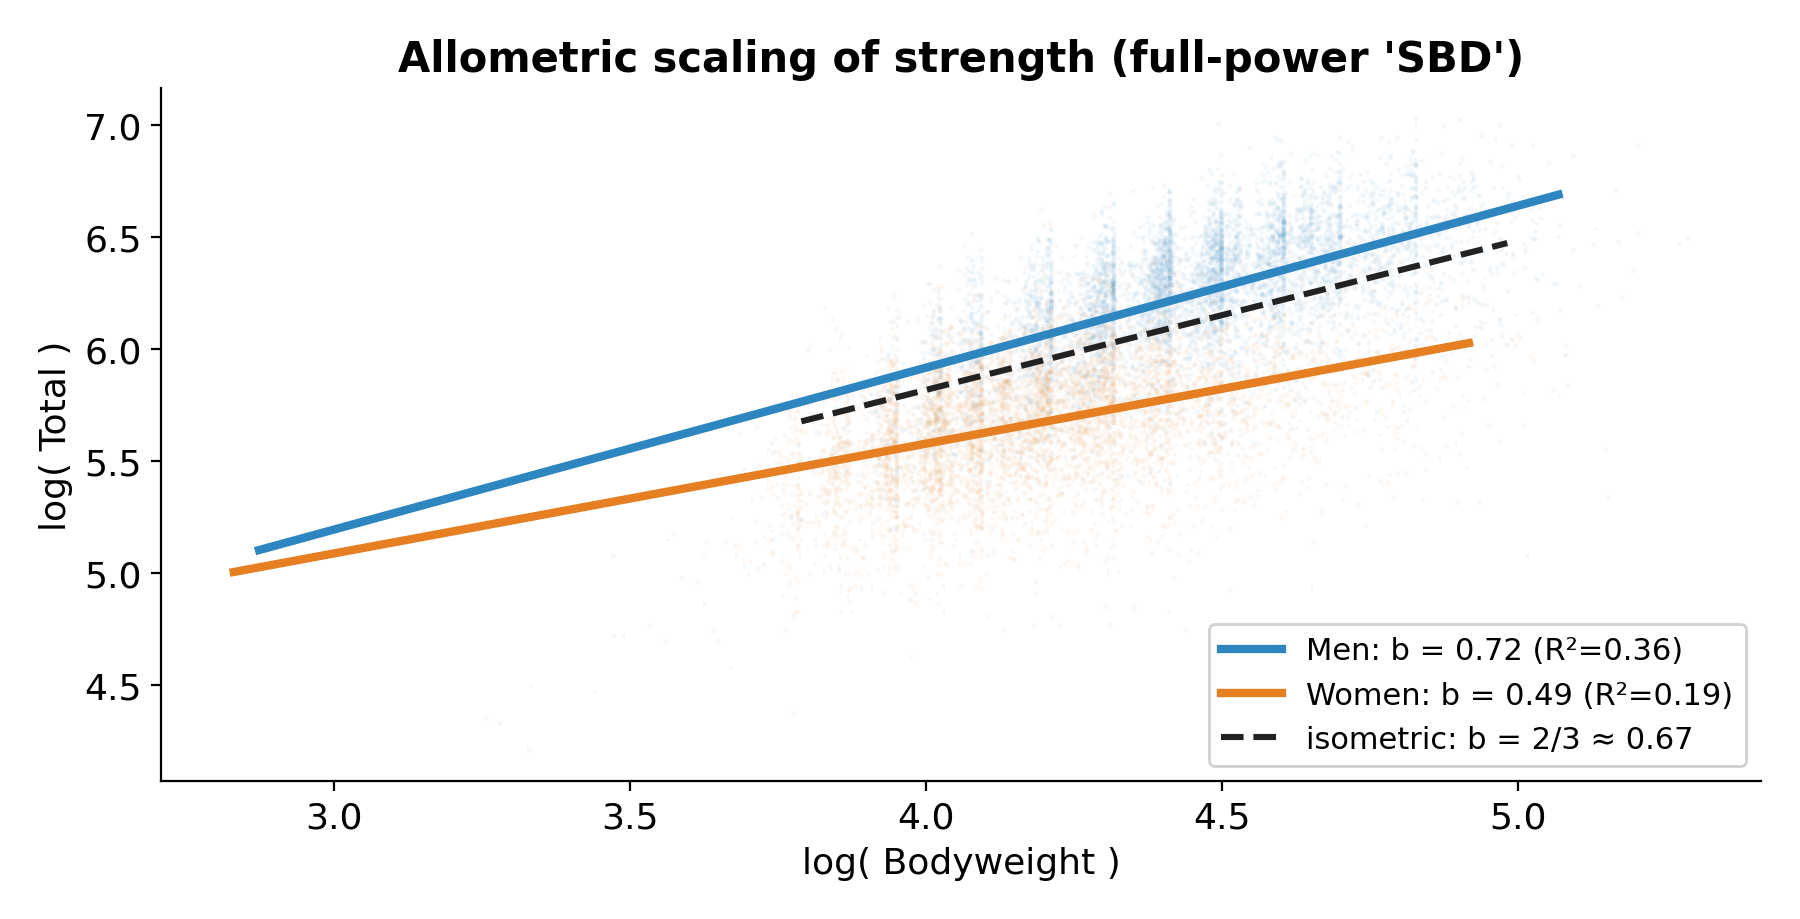
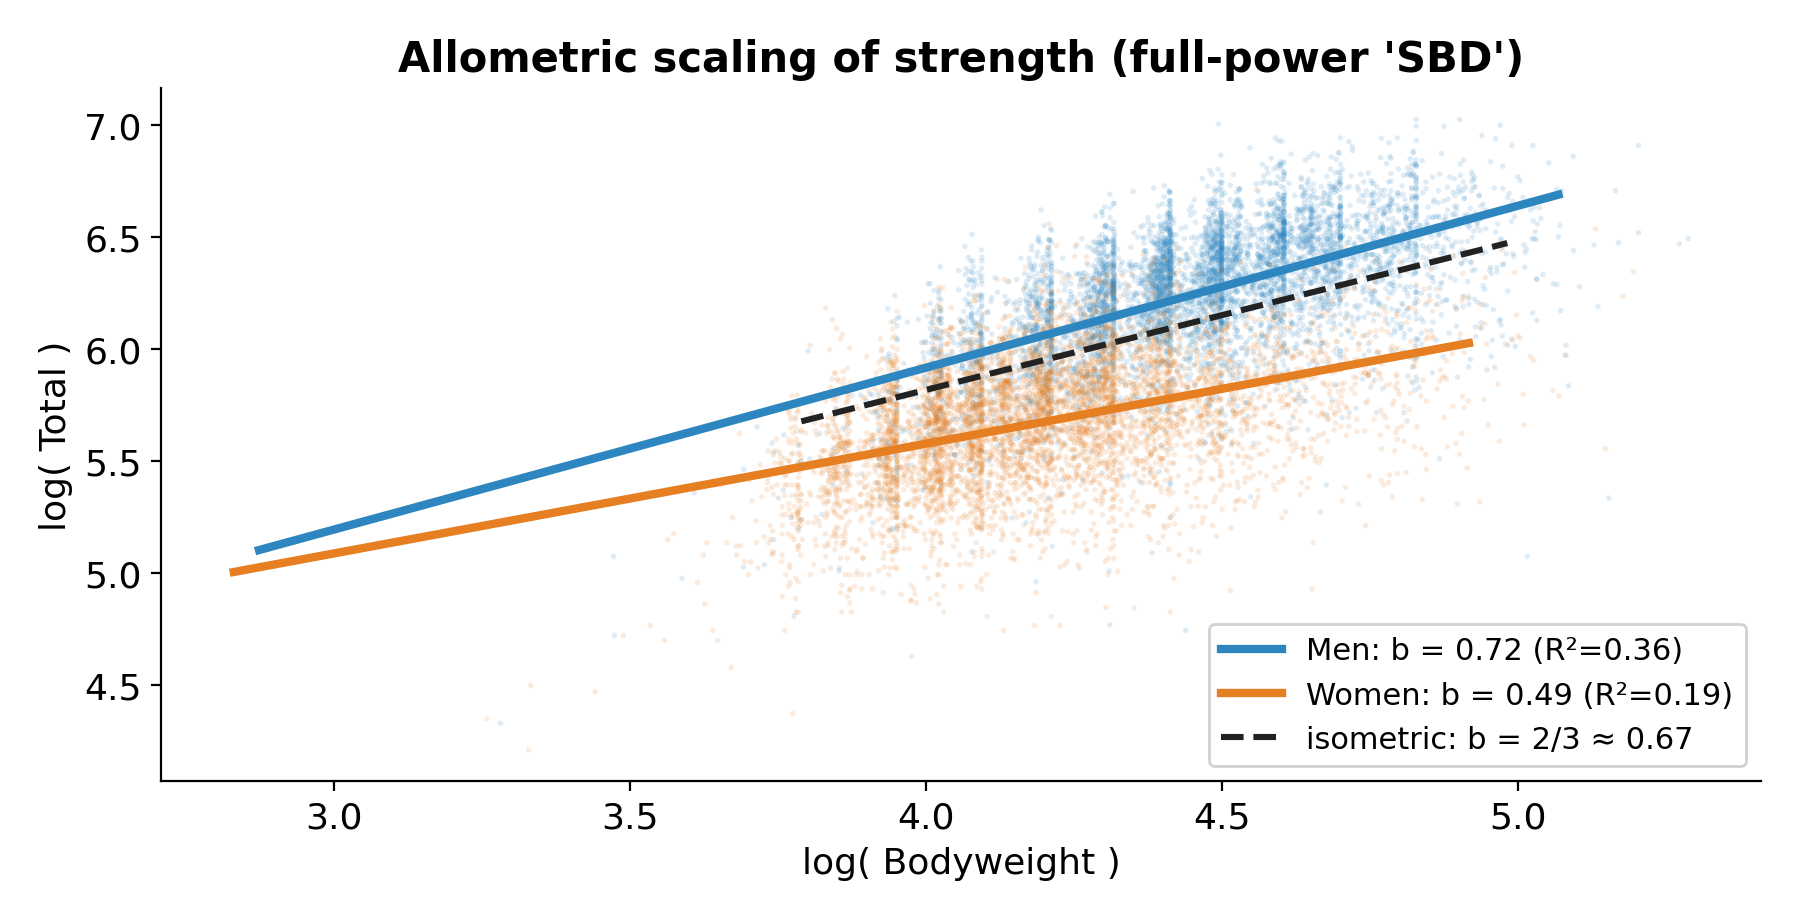
Final QA pass: unify H1-H4 numbering, close real gaps
Triangulated review across 5 lenses
(instructions-compliance, statistical-correctness, numbers/figures, course-coverage,
story/Hebrew/Q&A). Consensus fixes applied:

- CRITICAL: unify hypothesis numbering to the deck's H1(grid)/H2(bunching)/
  H3(allometry)/H4(prediction) across spec, course-alignment, checklist, and
  make_figures.py; demote old H3(mixture)/H4(tested) to clearly-labelled supporting
  analyses; add a canonical numbering table to the spec.
- Slide 2: stop overclaiming "dedup by lifter" (the figures are attempt/row-level;
  dedup is for the formal Stage-2 tests).
- Slide 7: "מחלקת IPF" -> "IPF+USAPL, גברים"; mark de-heaping as already applied.
- Slide 8: add the (tight) b confidence interval; figure alpha 0.05->0.15 for
  projector readability.
- Slide 4/5/9: frame H4 as the Stage-2 learning component; add a logistic
  "made-weight" classifier (covers the classification item); align feature list;
  slide title -> "שיטות החקר"; terminology "תיקון משפחתי"->"תיקון להשוואות מרובות",
  "מקטע-משקל"->"קטגוריית-משקל".
- checklist.md: remove the now-false "classification out-of-scope" line; fix F/ANOVA
  overclaim.
- spec: H4 circularity guard (predict Total, drop bodyweight when modelling Dots),
  MP/UMP one-sided framing, H2 weight-class-schema/era sensitivity, GOF framing of H1.

Changed region(s): [[0.4356, 0.1828, 0.8089, 0.6094]]

diff --git a/src/make_deck.py b/src/make_deck.py
@@ -93,13 +93,13 @@ rule(s, 6.05, l=4.4, w=4.5)
 content("נתוני המחקר", [
     "מקור: OpenPowerlifting — מאגר פתוח של תוצאות תחרויות הרמת-כוח (רישיון CC0).",
     "היקף: כ-3.94 מיליון תוצאות (שורה לכל מתחרה בכל תחרות), 42 משתנים.",
-    "משתנים: רציפים — משקל-גוף, משקלי-ניסיון, Total, Dots; קטגוריים — מין, ציוד, פדרציה, מקטע-משקל, Tested.",
-    "ניקוי ושחזור: אותו מתחרה מופיע בכמה תחרויות (תלות בין שורות) → dedup לפי-מתחרה; עותק-נתונים נעול לשחזור מלא.",
+    "משתנים: רציפים — משקל-גוף, משקלי-ניסיון, Total, Dots; קטגוריים — מין, ציוד, פדרציה, קטגוריית-משקל, Tested.",
+    "אתגרים וטיפול: אותו מתחרה מופיע בכמה תחרויות (תלות בין שורות) → המבחנים הפורמליים ירוצו עם dedup לפי-מתחרה; התוצאות הראשוניות כאן ברמת-ניסיון/שורה. נועלים snapshot של הנתונים לשחזור.",
 ])
 
 # ---- Slide 3: overview (two-numbers tagline + contribution) ----
 content("עיקרי העבודה", [
-    "רקע: בהרמת-כוח שלוש הרמות (סקוואט, בנץ', דדליפט), שלושה ניסיונות לכל הרמה, והתחרות בתוך מקטעי משקל-גוף.",
+    "רקע: בהרמת-כוח שלוש הרמות (סקוואט, בנץ', דדליפט), שלושה ניסיונות לכל הרמה, והתחרות בתוך קטגוריות משקל-גוף.",
     "מתחרה שולט בדיוק בשני מספרים: המשקל על המוט (בחירת ניסיונות) ומשקל הגוף (בשקילה).",
     "התרומה: לא רק לתאר — אלא מודל-הסתברות מקורי לרשת-המשקלים, ומבחן-מניפולציה עם נקודת-בקרה ו-de-heaping.",
 ], lead="הרעיון: שני המספרים שהמתחרה שולט בהם — המוט והמאזניים")
@@ -108,18 +108,18 @@ content("עיקרי העבודה", [
 content("שאלת החקר", [
     'כיצד מתבטאת בנתונים ההתנהגות ה"מחושבת" של מתחרים — בבחירת המשקל על המוט ובמשקל הגוף?',
     "\tH1 — משקלי הניסיון אינם רציפים אלא נופלים רק על רשת 2.5 ק\"ג.",
-    "\tH2 — הצטברות משקל-גוף ממש מתחת לסף מקטע-המשקל (עקבי עם חיתוך-משקל).",
+    "\tH2 — הצטברות משקל-גוף ממש מתחת לסף קטגוריית-המשקל (עקבי עם חיתוך-משקל).",
     "\tH3 — קנה-המידה האלומטרי (כוח מול משקל-גוף) שונה בין המינים.",
-    "\tH4 — ניבוי: כמה משתני-השליטה (משקל, ציוד, מין) מנבאים את הכוח הסופי?",
-], lead="ארבע השערות, סיפור אחד — \"שני המספרים\" וגבולות הכוח")
+    "\tH4 — ניבוי (לעבודה הסופית): כמה מהכוח ניתן לנבא ממשתני-השליטה (משקל, ציוד, מין, גיל)?",
+], lead="ארבע השערות, סיפור אחד — H1/H2 \"שני המספרים\", ו-H3/H4 גבולות-הכוח והניבוי")
 
 # ---- Slide 5: methods (1:1 with results + named course tools + ML) ----
-content("שיטות המחקר", [
+content("שיטות החקר", [
     "H1: מודל נראות עם עיגול-רשת (rounded-likelihood MLE) + מבחן יחס-נראות מוכלל (GLRT, דחיית H0 לערכים גדולים).",
     "H2: מבחן אי-רציפות-צפיפות (McCrary) + מערך-הפרכה — נקודת-בקרה, פלצבו, ו-de-heaping.",
     "H3: רגרסיה log-log + מבחן Wald מול 2/3, עם SE חסין ואיבר-אינטראקציה Sex×log(BW).",
-    "H4: רגרסיה מרובה + Random Forest, הערכה ב-R² / Adjusted-R² / Cross-Validation.",
-    'תיקון משפחתי לבדיקות מרובות: Bonferroni/Holm/Šidák (FWER) + Benjamini-Hochberg (FDR). בגלל n≈3.9M מובילים בגודל-אפקט+CI, לא ב-p.',
+    "H4 (לעבודה הסופית): רגרסיה מרובה + Random Forest (+ סיווג logistic ל-made-weight), הערכה ב-R²/RMSE ו-CV מקובץ לפי-מתחרה.",
+    'תיקון להשוואות מרובות: Bonferroni/Holm/Šidák (FWER) + Benjamini-Hochberg (FDR). בגלל n≈3.9M מובילים בגודל-אפקט+CI, לא ב-p.',
 ], lead_size=20)
 
 # ---- Slide 6: results H1 ----
@@ -129,12 +129,12 @@ fig_slide('תוצאות ראשוניות (1): רשת ה-2.5 ק"ג',
 
 # ---- Slide 7: results H2 ----
 fig_slide("תוצאות ראשוניות (2): חיתוך-משקל",
-          'מתחת לסף 83 ק"ג (מחלקת IPF) הצטברות חדה: יחס-לוג מנוקה-עיגול +1.92 ± 0.04 — פי ~6.8 מתחרים ממש-מתחת לעומת ממש-מעל. בבקרה שאינה סף (91 ק"ג): −0.21 ± 0.03. עקבי עם חיתוך-משקל; אישוש פורמלי (McCrary) בהמשך.',
+          'מתחת לסף 83 ק"ג (מחלקות IPF+USAPL, גברים) הצטברות חדה: יחס-לוג לאחר ניקוי-עיגול (כבר הוחל) +1.92 ± 0.04 — פי ~6.8 ממש-מתחת לעומת ממש-מעל. בבקרה שאינה סף (91 ק"ג): −0.21 ± 0.03. עקבי עם חיתוך-משקל; אישוש פורמלי (McCrary) בהמשך.',
           "fig_bunching.png", 9.8/4.3, 11.2)
 
 # ---- Slide 8: results H3 (allometry) ----
 fig_slide("תוצאות ראשוניות (3): קנה-מידה אלומטרי",
-          'קנה-המידה שונה בין המינים: b≈0.72 (R²=0.36) גברים / 0.49 (R²=0.19) נשים, מול 2/3 האיזומטרי. ייבדק פורמלית במבחן Wald (SE חסין); b<0.5 לנשים — אומדן ראשוני, ייתכן אפקט טווח-משקל.',
+          'קנה-המידה שונה בין המינים: b≈0.72 (R²=0.36) גברים / 0.49 (R²=0.19) נשים, מול 2/3 האיזומטרי (רווח-סמך ל-b צר מאוד, ±<0.01 — n עצום). ייבדק פורמלית במבחן Wald (SE חסין); b<0.5 לנשים — אומדן ראשוני, ייתכן אפקט טווח-משקל.',
           "fig_allometry.png", 9.0/4.6, 10.0)
 
 # ---- Slide 9: conclusions + payoff close ----
@@ -144,7 +144,7 @@ bullets = [
     'שני המספרים שהמתחרה שולט בהם נראים בבירור: רשת ה-2.5 ק"ג (המוט), והצטברות מתחת לספים (משקל גוף).',
     "ההצטברות שורדת ניקוי-עיגול ונעדרת בנקודת-בקרה — אינדיקציה ראשונית מעודדת (טרם מבוססת).",
     "הצעדים הבאים: McCrary פורמלי + הפרכה, אלומטריה (Wald), ומודל ניבוי-כוח (רגרסיה + Random Forest, R²/CV).",
-    "כל התוצאות יוצגו עם גודל-אפקט, רווחי-סמך, ותיקון משפחתי (FWER/FDR).",
+    "כל התוצאות יוצגו עם גודל-אפקט, רווחי-סמך, ותיקון להשוואות מרובות (FWER/FDR).",
 ]
 for i, b in enumerate(bullets):
     line(tf, "•  " + b, 19, INK, space_after=13, first=(i == 0))

diff --git a/src/make_figures.py b/src/make_figures.py
@@ -5,11 +5,11 @@ presentation figures (PNG) into ../figures, printing numbers + CIs.
 
 Axis labels are kept in ENGLISH on purpose (matplotlib bidi); Hebrew interpretation
 lives on the slide. Method notes:
-- H1: fraction of attempt loads exactly on the 2.5 kg grid (+ Wilson-ish CI).
+- H1: fraction of attempt loads exactly on the 2.5 kg grid (+ normal-approx CI).
 - H2: bodyweight near a real class limit vs a non-limit control; the histogram and the
   reported log(below/above) are BOTH de-heaped (exact round/half-kg weigh-ins removed),
   so the figure matches the headline number; window (L-0.5, L]; + CI.
-- H5: allometry on full-power (Event=='SBD') results; OLS slope b + CI + R²; isometric 2/3 ref.
+- H3: allometry on full-power (Event=='SBD') results; OLS slope b + CI + R²; isometric 2/3 ref.
 
 Input: ../data/openpowerlifting.csv (run download_data.py first).
 """
@@ -118,7 +118,7 @@ for L in (REAL, CTRL):
     b, a, lr, ci = asym(men, L)
     print(f"   @ {L}: de-heaped below {b:,} / above {a:,} | log-ratio {lr:+.3f} ± {ci:.3f} (x{np.exp(lr):.1f})")
 
-# ---- H5: allometric scaling (full-power 'SBD' only) ----
+# ---- H3: allometric scaling (full-power 'SBD' only) ----
 al = df[(df["Event"] == "SBD") & (df["TotalKg"] > 0) & (df["BodyweightKg"] > 0)
         & df["Sex"].isin(["M", "F"])][["Sex", "BodyweightKg", "TotalKg"]].dropna()
 fig, ax = plt.subplots(figsize=(9.0, 4.6))
@@ -134,7 +134,7 @@ for sex, col, lbl in [("M", C_M, "Men"), ("F", C_W, "Women")]:
     sxx = np.sum((x-x.mean())**2); se_b = np.sqrt(ssres/(len(x)-2)/sxx); ci_b = 1.96*se_b
     stats[sex] = (b, ci_b, r2)
     idx = rng.choice(len(x), size=min(6000, len(x)), replace=False)
-    ax.scatter(x[idx], y[idx], s=3, alpha=0.05, color=col, edgecolors="none")
+    ax.scatter(x[idx], y[idx], s=4, alpha=0.15, color=col, edgecolors="none")
     xs = np.linspace(x.min(), np.percentile(x, 99.5), 50)
     ax.plot(xs, a+b*xs, color=col, lw=3.0, label=f"{lbl}: b = {b:.2f} (R²={r2:.2f})")
 xbar, ybar = allx.mean(), ally.mean()
@@ -152,4 +152,4 @@ print(f"H1: {pct_grid:.1f}% (95% CI [{100*(p-ci_h):.2f},{100*(p+ci_h):.2f}]), n=
 b83, a83, lr83, c83 = asym(men, REAL); _, _, lr91, c91 = asym(men, CTRL)
 print(f"H2 @83 de-heaped: {lr83:+.2f} ± {c83:.2f}  (x{np.exp(lr83):.1f})  |  @91 control: {lr91:+.2f} ± {c91:.2f}")
 for s, name in [("M", "men"), ("F", "women")]:
-    b, ci, r2 = stats[s]; print(f"H5 {name}: b={b:.2f} ± {ci:.2f}, R²={r2:.2f}")
+    b, ci, r2 = stats[s]; print(f"H3 {name}: b={b:.2f} ± {ci:.2f}, R²={r2:.2f}")

diff --git a/docs/project-spec.md b/docs/project-spec.md
@@ -1,7 +1,18 @@
 # Final Project Spec — Statistical Theory
 ## "How Powerlifters 'Game' the Two Numbers They Control — and What the Data Reveals About Human Strength" (OpenPowerlifting)
 
-> All numbers below are **reproducible results** computed on the real data (3,938,042 rows, CC0). The core is robust: **H1** (96.2% of attempts on the 2.5 kg grid) and **H2** (bodyweight bunching just below class thresholds; a non-limit control is flat — the effect is specific to the thresholds). Secondary results: **H4** = 24%/43% untested (population / top-1%); **H5** = b≈0.72 (men) / 0.49 (women) on full-power (SBD) results. **H3 is *not* a by-sex mixture** (Dots is already normalized for sex/weight; see below). Wherever a specification must be locked, this is marked explicitly.
+> All numbers below are **reproducible results** computed on the real data (3,938,042 rows, CC0). The core is robust: **H1** (96.2% of attempts on the 2.5 kg grid) and **H2** (bodyweight bunching just below class thresholds; a non-limit control is flat — the effect is specific to the thresholds). **H3** = allometric scaling b≈0.72 (men) / 0.49 (women) on full-power (SBD) results. **H4** = a strength-prediction model (regression + Random Forest) covering the course's learning half. Supporting analyses: tested/untested control (24%/43% untested, population / top-1%); strength-distribution structure (**not** a by-sex mixture — Dots is already normalized for sex/weight; see below); EVT; time-trend. Wherever a specification must be locked, this is marked explicitly.
+>
+> **🔢 Canonical hypothesis numbering (one scheme for the deck, the prep-guide, this spec, and the code).** The mid-presentation presents exactly these four; the paper keeps the same numbers:
+> | # | Hypothesis | Status |
+> |---|---|---|
+> | **H1** | Attempt loads quantized to the 2.5 kg grid | Leading (core) |
+> | **H2** | Bodyweight bunching just below class limits (weight-cutting) | Leading (core) |
+> | **H3** | Allometric scaling of strength differs by sex (was "H5" in earlier drafts) | Presented result |
+> | **H4** | Predicting strength — regression + Random Forest (was "H6 / Stage 9") | Presented as the Stage-2 learning component |
+> | *Supporting (no H-number)* | strength-distribution structure (old "H3"), tested/untested control (old "H4"), EVT, time-trend | Paper only |
+>
+> Do a `grep -n "H3\|H4\|H5\|H6"` after any edit to confirm no two analyses share a number.
 
 ---
 
@@ -22,23 +33,24 @@
 - **H1 — quantization (the theoretical core):** attempt weights are not continuous but **quantized to a 2.5 kg grid** — a continuous "intended" weight observed through grid rounding. **Validated: 96.4% of best attempts / 96.2% including failed ones on the grid.** The reported result = **%on-grid + CI** (not the astronomical G).
 - **H2 — weight-cutting bunching:** an excess just below a class threshold + a deficit above it. **Result (IPF + USAPL men, n≈1.18M, boundary-correct window (L-0.5, L], de-heaped):** log(below/above) ≈ **+1.92 at the 83 kg limit** (and ≈ +1.5 / +1.0 at 93 / 105), versus ≈ **-0.21 at a non-limit control (91 kg)** — the excess is specific to real class limits and survives removing round-number heaping. To be formalized with a McCrary / Cattaneo-Jansson-Ma density-discontinuity test (see section 2).
 
-**🟡 Secondary:**
-- **H3 — structure of the strength distribution:** ⚠️ **Not a by-sex mixture.** `Dots` is pre-normalized for sex+weight (mean Dots ≈254 *identical* across the two sexes) — so labeling the components as "men/women" is factually wrong. The bimodality is **real** (Anderson-Darling ≈687–1307) but originates in **single-lift/bench-only events, beginners/youth, and bomb-outs** (the low cluster is 78% men). **Framing:** (a) run the mixture on **raw strength** (not Dots), where sex *does* produce bimodality; or (b) filter to **full SBD + TotalKg>0** and frame it as "two competition regimes." Mixture-vs-single GLRT **via parametric bootstrap / AIC-BIC — not χ²** (see caveat in section 2).
-- **H5 — allometric scaling:** `Total ~ Bodyweight^b` on full-power (Event=='SBD') results. **OLS: b≈0.72 (men) / 0.49 (women).** Men sit slightly **above** the isometric 2/3≈0.667, women well **below** — a sex difference in scaling. Report b+CI with heteroskedasticity-robust / clustered SE and a Sex×log(BW) interaction (section 2). The women's b<0.5 may be a range-restriction artifact → diagnose before publication.
+**🟡 Presented result (H3):**
+- **H3 — allometric scaling (was "H5"):** `Total ~ Bodyweight^b` on full-power (Event=='SBD') results. **OLS: b≈0.72 (men) / 0.49 (women).** Men sit slightly **above** the isometric 2/3≈0.667, women well **below** — a sex difference in scaling. Report b+CI with heteroskedasticity-robust / clustered SE and a Sex×log(BW) interaction (section 2). The women's b<0.5 may be a range-restriction artifact → diagnose before publication.
+- **H4 — predicting strength (was "H6 / Stage 9"; the course's learning half):** how well is `TotalKg` predicted from the controllable + basic variables? **Multiple regression + Random Forest**, evaluated on **held-out lifters** (grouped CV) with **R²/Adjusted-R²/RMSE/MAE** + feature importance, plus a small **logistic "made-weight-just-under-a-limit" classifier** (accuracy/AUC/confusion) to cover the *classification* item. ⚠️ **Avoid circularity:** when the target is `Dots` (already a function of bodyweight) drop bodyweight from the predictors; the headline model predicts **`TotalKg`** with bodyweight as a feature. No preliminary result at Stage A — presented as the planned Stage-2 learning component.
 
-**🔵 Additional observations / control (compact paragraph, not a main header):**
-- **H4 — drugs/testing (control/moderator):** **24% untested in the population / 43% in the top-1%** (untested are over-represented in the elite tail). ⚠️ confound at the federation/equipment/era level — one cannot infer "drugs" from a raw comparison. Therefore: compare **top-1% versus bottom-99% (disjoint groups)** with **equipment stratification + regression** (Tested + Federation+Equipment+Sex+Era), and frame it **descriptively** / as a moderator of the dose-response in H2.
+**🔵 Supporting analyses (paper only — NOT numbered hypotheses, NOT in the mid-deck):**
+- **Supporting — structure of the strength distribution (old "H3"):** ⚠️ **Not a by-sex mixture.** `Dots` is pre-normalized for sex+weight (mean Dots ≈254 *identical* across the two sexes) — so labeling the components as "men/women" is factually wrong. The bimodality is **real** (Anderson-Darling ≈687–1307) but originates in **single-lift/bench-only events, beginners/youth, and bomb-outs** (the low cluster is 78% men). **Framing:** (a) run the mixture on **raw strength** (not Dots), where sex *does* produce bimodality; or (b) filter to **full SBD + TotalKg>0** and frame it as "two competition regimes." Mixture-vs-single GLRT **via parametric bootstrap / AIC-BIC — not χ²** (see caveat in section 2).
+- **Supporting — drugs/testing control/moderator (old "H4"):** **24% untested in the population / 43% in the top-1%** (untested are over-represented in the elite tail). ⚠️ confound at the federation/equipment/era level — one cannot infer "drugs" from a raw comparison. Therefore: compare **top-1% versus bottom-99% (disjoint groups)** with **equipment stratification + regression** (Tested + Federation+Equipment+Sex+Era), and frame it **descriptively** / as a moderator of the dose-response in H2.
 - **EVT (supporting):** GEV on the annual block-maxima of strength, ξ<0 → ceiling. **Report the number of blocks + a CI for ξ (profile-likelihood)**, a stable sub-window, and cite Einmahl & Magnus (the method is well known — its application to OPL is new).
 - **Time trend (supporting):** mean strength and number of participants over the years; women/men ratio — compact.
 
 ## 2. Analysis Plan (Python)
 **Stage 0 — loading, cleaning, and unit of analysis (declared in advance):**
 - From the 803MB CSV → lean files by columns. Attempts = absolute value (failures are negative), reasonable range.
-- **Independence / pseudo-replication — correction per-hypothesis (not a "note"):** the same competitor appears in many rows; this **biases estimates** (not merely inflates significance) in H3/H5/time-trend. **Declared dedup rule: one row per competitor = personal Total-best within the clean set**, for the cross-sectional hypotheses (H3/H5/EVT/time). For H1 the unit of analysis is **the attempt** (the mechanism is within-competitor ⇒ the grid is robust to clustering). Report a **sensitivity table** for 2–3 dedup rules.
+- **Independence / pseudo-replication — correction per-hypothesis (not a "note"):** the same competitor appears in many rows; this **biases estimates** (not merely inflates significance) in allometry/structure/time-trend. **Declared dedup rule: one row per competitor = personal Total-best within the clean set**, for the cross-sectional analyses (H3-allometry / structure / EVT / time). For H1 the unit of analysis is **the attempt** (the mechanism is within-competitor ⇒ the grid is robust to clustering). Report a **sensitivity table** for 2–3 dedup rules.
 - **Unit-source control (lb→kg):** identify lb-native rows (weight = a multiple of 0.45359237) and run H2 **first on the kg-native IPF rows**; show that the effect survives; report the lb-converted ones separately.
-- **Explicit federation list, published in the repo:** IPF + USAPL/USPA (one modern schema). Exclude THSPA/THSWPA (Texas high school) and FPR/USPF/WPC (overlapping schemas).
+- **Explicit federation list, published in the repo:** IPF + USAPL/USPA (one modern schema). Exclude THSPA/THSWPA (Texas high school) and FPR/USPF/WPC (overlapping schemas). ⚠️ **Weight-class schemas changed over time** even within IPF/USAPL (older eras used 82.5/90/100 kg classes, the modern men's set is 59/66/74/83/93/105/120). For H2, **restrict to the modern-schema era** (or filter by the published `WeightClassKg` set) and run a **schema-era sensitivity check** so the 83-vs-91 contrast is not muddied by legacy classes near 90.
 
-**Stage 1 — Core A: quantization (H1).** %on-grid 2.5/5/integer **+ CI** as the primary result; **MLE for a grid-rounding model** (point mass on the grid + continuous background) + **nested likelihood-ratio (GLRT)**. ⚠️ The grid weight is on the **boundary** of the space under H0 → declare the df and use **Self–Liang / bootstrap** (not naive χ²_1). Sub-grid (lb→kg peaks) via a cited **lb-plate standard**.
+**Stage 1 — Core A: quantization (H1).** %on-grid 2.5/5/integer **+ CI** as the primary result; **MLE for a grid-rounding model** (point mass on the grid + continuous background) + **nested likelihood-ratio (GLRT)**. ⚠️ The grid weight is on the **boundary** of the space under H0 → declare the df and use **Self–Liang / bootstrap** (not naive χ²_1). Frame the on-grid test *also* as a **χ² goodness-of-fit** of attempt-loads against the 2.5 kg-grid expected distribution — this earns the "goodness-of-fit"/"χ²" toolbox items for free. Sub-grid (lb→kg peaks) via a cited **lb-plate standard**.
 
 **Stage 2 — Core B: bunching (H2).** A **density-discontinuity test (McCrary; preferably Cattaneo-Jansson-Ma `rddensity`)** of the **jump** at the threshold — not bare "asymmetry." Measure the **spike width** (cutting = a sharp spike in <0.5–1 kg; class assignment = a smooth slope). Falsification (mandatory):
 - (i) **two placebos** to separate the confound: (a) round-non-legal (80/85 if not a threshold) to measure round-number attraction; (b) **non-round-and-non-legal** (70.0 etc.) = the true null. **The claim = asymmetry at legal thresholds greater than the round-number baseline** (a contrast, not "present/absent").
@@ -46,12 +58,12 @@
 - (iii) **dose (dose-response)** — stronger in the elite/tested/winners, **within the same federation** (otherwise it is a federation-composition confound), and at the competitor level (dedup).
 - Bandwidth: a declared selection rule + a **sensitivity curve** + CI (not a bare number).
 
-**Stage 3 — structure of the strength distribution (H3).** Normality (Anderson-Darling + KS + QQ) → rejected → **2-component Gaussian mixture model (EM)**. ⚠️ **The mixture LRT violates Wilks** (mixing weight on the boundary + non-identifiability) → **calibrate with a parametric bootstrap or lead with AIC/BIC**, and declare this explicitly (turns a pitfall into a beyond-course advantage). Run on **raw strength / full SBD** (not Dots), and interpret as "competition regimes"/sex-in-raw-strength.
+**Stage 3 — structure of the strength distribution (supporting).** Normality (Anderson-Darling + KS + QQ) → rejected → **2-component Gaussian mixture model (EM)**. ⚠️ **The mixture LRT violates Wilks** (mixing weight on the boundary + non-identifiability) → **calibrate with a parametric bootstrap or lead with AIC/BIC**, and declare this explicitly (turns a pitfall into a beyond-course advantage). Run on **raw strength / full SBD** (not Dots), and interpret as "competition regimes"/sex-in-raw-strength.
 
-**Stage 4 — control: tested versus untested (H4).** **top-1% versus bottom-99% (disjoint groups)** — two-proportions / χ² + CI for the difference + odds-ratio. **Equipment stratification (Raw vs Raw)** and **regression** with Tested+Federation+Equipment+Sex+Era (interaction term in-course). χ² test of independence **Federation×Tested** (+ Cramér's V). *Drop* the standalone equipment ANOVA and the sex×equipment χ² into a single control paragraph ("equipment inflates Total → controlled for"). Mean comparisons: **Welch *or* Mann-Whitney** (state the null of each) + a **rank-based effect size**; **no Levene as a gate**. Report **standardized residuals** for the Federation×Tested χ² (which cell drives the association — Lecture 9); when converting a Mann-Whitney/Wilcoxon rank statistic to z, apply the **continuity correction** (Lecture 8).
+**Stage 4 — control: tested versus untested (supporting).** **top-1% versus bottom-99% (disjoint groups)** — two-proportions / χ² + CI for the difference + odds-ratio. **Equipment stratification (Raw vs Raw)** and **regression** with Tested+Federation+Equipment+Sex+Era (interaction term in-course). χ² test of independence **Federation×Tested** (+ Cramér's V). *Drop* the standalone equipment ANOVA and the sex×equipment χ² into a single control paragraph ("equipment inflates Total → controlled for"). Mean comparisons: **Welch *or* Mann-Whitney** (state the null of each) + a **rank-based effect size**; **no Levene as a gate**. Report **standardized residuals** for the Federation×Tested χ² (which cell drives the association — Lecture 9); when converting a Mann-Whitney/Wilcoxon rank statistic to z, apply the **continuity correction** (Lecture 8).
 
-**Stage 5 — allometry (H5).** `log(Total) ~ log(Bodyweight)` OLS with **heteroskedasticity-robust standard errors (HC3) / clustered-by-competitor**; a **Wald test against 2/3** (and also presented against 1 as an anchor); a **Sex×log(BW) interaction term** to test the sex difference *formally* (instead of a separate fit). Report the fit's **R²**; for the Pearson/Spearman correlations give CIs via the **Fisher transformation** (Lecture 9). Diagnose the b≈0.49 for women (weight-range/leverage) before interpretation. Result = **b+CI**, not p.
-- **H6 — predicting strength (covers the course's ML / learning half):** how well is `TotalKg`/`Dots` predicted from the controllable + basic variables (bodyweight, sex, equipment, age)? **Multiple linear regression** (log terms + interactions) vs a **Random Forest** baseline, evaluated on **held-out lifters** with **R² / Adjusted R² / RMSE / k-fold CV** + feature importance. On-story: "how predictable is the strength a lifter produces, and which inputs matter." (Lectures 3 + 10.)
+**Stage 5 — allometry (H3).** `log(Total) ~ log(Bodyweight)` OLS with **heteroskedasticity-robust standard errors (HC3) / clustered-by-competitor**; a **Wald test against 2/3** (and also presented against 1 as an anchor); a **Sex×log(BW) interaction term** to test the sex difference *formally* (instead of a separate fit). Report the fit's **R²**; for the Pearson/Spearman correlations give CIs via the **Fisher transformation** (Lecture 9). Diagnose the b≈0.49 for women (weight-range/leverage) before interpretation. Result = **b+CI**, not p. (The preliminary deck figure uses plain OLS SE; the **HC3/clustered SE is the formal Stage-2 version** — keep the deck's "ייבדק פורמלית (SE חסין)" framing.)
+- **(H4 prediction is specified in Stage 9 below.)**
 
 **Stage 6 — extreme value theory (EVT, supporting).** GEV on the annual block-maxima; **report the number of blocks** + a CI for ξ; **POT/GPD** as an alternative; a stable sub-window (fixed federations/era) or a trend-model in location. ξ<0 = "a ceiling *in this competitive population*," not "a ceiling of the human species."
 
@@ -62,13 +74,13 @@
 - A pre-declared family of tests; apply **all four corrections the TA requires — Bonferroni, Holm-Bonferroni, Šidák (FWER family) + Benjamini-Hochberg (FDR)** (via `statsmodels.stats.multitest.multipletests`, methods `bonferroni`/`holm`/`sidak`/`fdr_bh`), reported as a #-rejected comparison table → note robustness across methods (FWER vs FDR agree because the effects are strong). An **a-priori power analysis** (α=0.05, target 0.90).
 - **Paired test (new, on-story):** attempt-1 versus attempt-3 of the same competitor (Wilcoxon signed-rank) — covers an additional item from the toolbox and reinforces H1/H2 ("the number on the bar").
 
-**Stage 9 — prediction / learning (H6; the course's ML half).** Target `TotalKg` (and/or `Dots`). Features: bodyweight, sex, equipment, age (+ federation/era). Models: **multiple linear regression** (log transforms, Sex×log(BW) interaction, one-hot for categoricals) and a **Random Forest** baseline. Evaluate with a **train/test split grouped by lifter** (no leakage) + **k-fold CV**; report **R² / Adjusted R² / RMSE / MAE**, compare linear-vs-RF, and **feature / permutation importance**. Check **multicollinearity (VIF / correlation matrix)** on the linear model (Lecture 10). Keep it modest and on-story (predicting the strength behind "the two numbers") — one focused model, not a model zoo.
+**Stage 9 — prediction / learning (H4; the course's ML half).** Target **`TotalKg`** (headline; bodyweight is a legitimate feature). ⚠️ If also modelling `Dots`, **drop bodyweight from the predictors** — `Dots` is already a function of bodyweight, so keeping it is circular. Features: bodyweight, sex, equipment, age (+ federation/era). Models: **multiple linear regression** (log transforms, Sex×log(BW) interaction, one-hot for categoricals) and a **Random Forest** baseline. Evaluate with a **train/test split grouped by lifter** (no leakage) + **k-fold CV**; report **R² / Adjusted R² / RMSE / MAE**, compare linear-vs-RF, and **feature / permutation importance**. Check **multicollinearity (VIF / correlation matrix)** on the linear model (Lecture 10). **Classification add-on (covers the instructions' "קלאסיפיקציה" item):** a **logistic regression** predicting the binary "made weight just under a class limit" (the H2 cut indicator) from features, reported with **accuracy / AUC / confusion matrix** — on-story (ties to "the two numbers") and gives genuine learning-evaluation metrics for both regression and classification. Keep it modest — one focused regression + one small classifier, not a model zoo.
 
 **Theory notes (the heart of the course):**
 - **GLRT ↔ Pearson:** Pearson's χ² = a second-order Taylor approximation of the likelihood-ratio statistic (Wilks) — derived in Lecture 8 (verified against the transcript). A strong theoretical anchor.
-- **MP/UMP — anchor in a real test:** frame the **Wald test of H5 (b versus 2/3)** or a one-sample test as the Neyman-Pearson/UMP point; the GLRTs (H1/H3/EVT) = a generalization of the MP-lemma to composite hypotheses (Wilks).
+- **MP/UMP — anchor in a real test:** frame a **one-sided** test (e.g. the allometry **H3** test of b versus 2/3, stated one-sided so UMP is valid for the one-parameter exponential family) as the Neyman-Pearson/UMP point — a *two-sided* Wald is not automatically UMP, so state the one-sided version or downgrade the label to "Neyman-Pearson motivation." The GLRTs (H1 / structure / EVT) = a generalization of the MP-lemma to composite hypotheses (Wilks).
 - **n warning:** at n≈3.9M every null is rejected — therefore the science rests on **effect size + the falsification**, not on p. State this in the Discussion.
-- **Prediction / learning (now INCLUDED — Stage 9 / H6):** a modest regression + Random Forest strength-prediction with R²/Adjusted-R²/CV covers the course's ML half (Lectures 3 + 10) and the learning-evaluation metrics. A full classification model zoo (trees/XGBoost/NN) stays out — one focused predictive model that serves the story is enough.
+- **Prediction / learning (now INCLUDED — Stage 9 / H4):** a modest regression + Random Forest strength-prediction with R²/Adjusted-R²/CV + a small logistic "made-weight" classifier (AUC/confusion) covers the course's ML half (Lectures 3 + 10) — both **regression** and **classification** and the learning-evaluation metrics. A full model zoo (XGBoost/NN) stays out — focused models that serve the story are enough.
 
 ## 3. Tool Classification: in-course versus beyond-course
 - **In-course:** t/Welch, F, ANOVA, χ² (independence + goodness-of-fit + **standardized residuals**), Pearson/Spearman (+ **Fisher transform**, Cramér's V), GLRT/LRT, Wald, MLE, power, multiple-testing corrections (Bonferroni/Holm/Šidák/BH), **regression + R²/Adjusted-R² + VIF**, **interaction term**, **paired test**, **multiple regression + learning-evaluation metrics (train/test, k-fold CV, RMSE) — Lectures 3+10**.
@@ -85,7 +97,7 @@
 - **Two-column IEEE template**. **Title block on the page** (no cover): title + **the two authors (Adir Elmakais, David Levin)** + ID + email. **GitHub/Colab link below the Abstract.** *(IEEE/ID/email are derived from the example, not from the explicit instructions — but better to follow.)*
 - **Locked order:** Abstract → Introduction → **Results → Methods** → Discussion.
 - **Abstract** (~150–250 words): background + question + main results + conclusion.
-- **Introduction:** background (weight-cutting; McCrary 2008) + **explicit differentiation with citations**: **lead with H1 (rounded-likelihood — truly the original part)**; cite **Peyen et al. arXiv:2503.13040 (2025)** which already showed the accumulation below thresholds on OPL, and frame our contribution as a **formal test + falsification** (not "we discovered bunching"); cite **medRxiv 2021.05.07.21256806** (tested/untested) and frame H4 as a control. An originality claim that is **modest and defensible** ("to the best of our knowledge, no public OPL analysis combines a quantization model with bunching that has passed falsification").
+- **Introduction:** background (weight-cutting; McCrary 2008) + **explicit differentiation with citations**: **lead with H1 (rounded-likelihood — truly the original part)**; cite **Peyen et al. arXiv:2503.13040 (2025)** which already showed the accumulation below thresholds on OPL, and frame our contribution as a **formal test + falsification** (not "we discovered bunching"); cite **medRxiv 2021.05.07.21256806** (tested/untested) and frame the tested/untested analysis as a supporting control. An originality claim that is **modest and defensible** ("to the best of our knowledge, no public OPL analysis combines a quantization model with bunching that has passed falsification").
 - **Results:** the leading + secondary hypotheses by name, **tables/figures**; **every statistic = effect size + CI + interpretation in words** (p secondary).
 - **Methods (a softened rule!):** the instructions *and the example* do **define standard tests** → give a short formal description (statistic + H0/H1 + decision rule) **also for in-course** (Welch, χ², Wald, regression, GLRT), and depth for the creative tools (rounded-likelihood, mixture-bootstrap, GEV).
 - **Discussion:** conclusions + limitations (observational; federation schemas; multi-meet competitors; bias in Tested; selection/survivorship in EVT; n→significance) + **null results as valid findings**.

diff --git a/docs/course-alignment.md b/docs/course-alignment.md
@@ -21,37 +21,37 @@ Cross-reference of **what the course actually teaches** (lectures 3/8/9/10 slide
 | Hypothesis testing, p, Type I/II, **power** | ✅ | a-priori power analysis (Stage 8) |
 | **MP / UMP / Neyman-Pearson** | ✅ | anchored on the Wald-vs-2/3 / one-sample test |
 | **GLRT (λ)** | ✅ | H1 core (rounded-likelihood MLE + nested GLRT) |
-| **Mann-Whitney / Wilcoxon** | ✅ | H4 (MWU), paired Wilcoxon (attempt-1 vs attempt-3) |
-| **Normality tests** | ✅ | Anderson-Darling + KS + QQ (H3) |
+| **Mann-Whitney / Wilcoxon** | ✅ | tested/untested control (MWU), paired Wilcoxon (attempt-1 vs attempt-3) |
+| **Normality tests** | ✅ | Anderson-Darling + KS + QQ (strength-distribution structure, supporting) |
 | Normal-approx **continuity correction** | ⚠️ partial | mention it when reporting the rank-test z |
 | **Bonferroni / Šidák / BH** | ✅✅ | all four (+ Holm) per the TA — exceeds the course |
 | **ANOVA / Kruskal-Wallis + post-hoc (Dunn)** | ✅ | equipment / group comparisons |
 | **Standardized residuals** (χ² cells) | ❌ | EASY ADD — report which cell drives the Federation×Tested χ² |
-| Pearson / Spearman | ✅ | H5 / correlations |
+| Pearson / Spearman | ✅ | H3 / correlations |
 | **Cramér's V / phi** | ✅ | with the χ² independence |
 | **Fisher transformation** (corr CI) | ❌ | minor add — gives a proper CI on the correlations |
 | point-biserial / McNemar | N/A | no paired-categorical / dichotomous-vs-ordinal need |
-| OLS / **R²** / MSE | ⚠️ partial | H5 reports slope+CI; should also report **R²** (already noted R²≈0.06) |
-| **Multiple regression** | ✅ | H4 regression (Tested + Federation + Equipment + Sex + Era) |
+| OLS / **R²** / MSE | ✅ | H3 reports slope+CI+**R²** (0.36 men / 0.19 women) |
+| **Multiple regression** | ✅ | H4 prediction (bodyweight+sex+equipment+age) + tested/untested control regression |
 | **Adjusted R² / VIF (multicollinearity)** | ❌ | ADD when the multiple regression runs (covariates are correlated) |
-| **Interaction terms** | ✅ | Sex × log(Bodyweight) in H5 |
-| Categorical/binary predictors, one-hot | ✅ | H4 regression |
-| **Logistic regression** | ❌ | not used — but natural for a "cut weight? / tested?" model |
-| **Classification: trees / RF / XGBoost / NN** | ❌ | **absent entirely** |
-| **Learning-evaluation metrics, train/test, CV** | ❌ | **absent entirely** |
+| **Interaction terms** | ✅ | Sex × log(Bodyweight) in H3 |
+| Categorical/binary predictors, one-hot | ✅ | H4 prediction (one-hot equipment/sex/federation) |
+| **Logistic regression** | ✅ planned | H4 classification add-on — "made-weight just under a limit" (AUC/confusion) |
+| **Classification: trees / RF / XGBoost / NN** | ✅ planned | H4: Random Forest + logistic classifier (XGBoost/NN deliberately out — one focused model) |
+| **Learning-evaluation metrics, train/test, CV** | ✅ planned | H4: R²/Adjusted-R²/RMSE/MAE + grouped-by-lifter CV + AUC/confusion |
 
 ## 3. The one real gap — DECIDED ✅
 
-> **Decision (adopted):** add the **regression + Random Forest strength-prediction** (option below). Now in `project-spec.md` as **Stage 9 / H6**, with R²/Adjusted-R²/CV/RMSE + feature importance. This closes the ML/learning gap. The §4 quick wins were also folded into the spec (standardized residuals → Stage 4; R²/VIF/Fisher → Stage 5; continuity correction → Stage 4).
+> **Decision (adopted):** add the **regression + Random Forest strength-prediction** + a small **logistic "made-weight" classifier** (option below). Now in `project-spec.md` as **Stage 9 / H4**, with R²/Adjusted-R²/CV/RMSE + feature importance + AUC/confusion. This closes the ML/learning **and classification** gap. The §4 quick wins were also folded into the spec (standardized residuals → Stage 4; R²/VIF/Fisher → Stage 5; continuity correction → Stage 4). The mid-deck now carries H4 explicitly as the planned Stage-2 learning component (slides 4/5/9).
 
 
-**The course devotes a whole lecture (3) + half of lecture 10 to ML / prediction — logistic regression, decision trees, Random Forest, XGBoost, neural nets, and learning-evaluation metrics — and the instructions list "classification, learning-evaluation metrics" explicitly. Our project is almost entirely *classical inference* and has no predictive/learning component.**
+**The course devotes a whole lecture (3) + half of lecture 10 to ML / prediction — logistic regression, decision trees, Random Forest, XGBoost, neural nets, and learning-evaluation metrics — and the instructions list "classification, learning-evaluation metrics" explicitly.** *(This was the one gap when the project was purely classical inference; it is now closed by H4 — regression + Random Forest + a logistic classifier — see the adopted decision above.)*
 
 - **In our favor:** the high-scoring exemplar (Chess) was also classical inference (KS, Mann-Whitney, correlation, one MLE mixture) with no ML, and the instructions qualify the toolbox with "if relevant." So omitting ML is *defensible*.
 - **The risk:** the course's own emphasis is heavily ML, so a grader may expect at least *some* engagement with prediction + learning-evaluation. Right now we'd be using ~half the course.
 
 **Recommendation — add ONE modest predictive piece that serves the story (low cost, high alignment):**
-- **Best fit:** extend H5 into a small **prediction model of strength**: multiple regression (and a **Random Forest** baseline) predicting `TotalKg`/`Dots` from bodyweight + sex + equipment + age, reported with **R² / Adjusted R² / train-test (or CV) / RMSE** — this directly exercises Lectures 3 + 10 and the "learning-evaluation metrics" requirement, and stays on the "two numbers + strength" story.
+- **Best fit (adopted as H4):** a small **prediction model of strength**: multiple regression (and a **Random Forest** baseline) predicting `TotalKg`/`Dots` from bodyweight + sex + equipment + age, reported with **R² / Adjusted R² / train-test (or CV) / RMSE** — this directly exercises Lectures 3 + 10 and the "learning-evaluation metrics" requirement, and stays on the "two numbers + strength" story.
 - **Alternative (ties to H2):** a **logistic regression** classifying "made weight just under a class limit" (cut indicator) from features, with accuracy / AUC / confusion matrix — covers logistic + classification + learning metrics.
 
 Either one closes the gap and lets us honestly say the project spans both halves of the course.
@@ -65,7 +65,7 @@ Either one closes the gap and lets us honestly say the project spans both halves
 ## 5. Mid-presentation alignment (28.6)
 - The deck's methods are **all on the course's toolbox** (GLRT, Mann-Whitney, multiple-testing corrections, regression, effect-size-over-p) — no foreign tool. ✅
 - **Conventions match** what the course grades: GLRT phrased as alternative/null reject-large, critical values quantile-style χ²₍df,1−α₎ (in the prep doc for Q&A); no χ² critical-value notation printed on slides. ✅
-- The deck does **not** show an ML/prediction result — consistent with it being preliminary, but if we adopt §3 above, add one line to the "next steps" slide ("מודל ניבוי לכוח: רגרסיה + Random Forest עם R²/CV").
+- The deck does **not** show an ML/prediction *result* (correct — it is preliminary), but now carries **H4 explicitly** as the planned Stage-2 learning component on slides 4/5/9 ("מודל ניבוי-כוח: רגרסיה + Random Forest + סיווג logistic, R²/CV"). ✅ adopted.
 
 ## Bottom line
 The plan + deck **fit the course well on the classical-inference side and even exceed it** (multiple-testing, GLRT, falsification). The **only material gap is the ML / prediction / learning-evaluation half of the course** — defensible to omit (the exemplar did), but adding one modest predictive model (§3) would make the project unambiguously span the whole course and is low-cost. The §4 quick wins are easy course-aligned polish.

diff --git a/docs/checklist.md b/docs/checklist.md
@@ -5,7 +5,7 @@ Based on the project instructions + Lecture 8. Lecturer/contact: **Dr. Oshrit Vi
 ## In Brief
 - **Pair work: Adir Elmakais + David Levin** — matches the default (pairs); no special approval needed.
 - **Selected dataset: OpenPowerlifting** (~3.94M competition results, CC0). A single question: how do competitors "game" the weight on the bar and bodyweight, and what does the data reveal about human strength. **Full specification:** `project-spec.md`.
-- **Hypothesis structure:** leading = **H1 quantization (96.2% on-grid) + H2 bunching** (empirically confirmed; non-limit control flat); secondary = H3 (*not* a sex mixture) + H5 allometry; supporting = H4/EVT/time-trend. Full details in `project-spec.md`.
+- **Hypothesis structure (canonical H1–H4):** leading = **H1 quantization (96.2% on-grid) + H2 bunching** (empirically confirmed; non-limit control flat); **H3 allometry**; **H4 prediction** (regression + Random Forest + logistic classifier — the course's learning half, built for Stage B). Supporting (paper only, *not* numbered): strength-distribution structure (*not* a sex mixture), tested/untested control, EVT, time-trend. Full details in `project-spec.md`.
 - Two stages: midterm presentation (30%) ← final project (70%).
 
 ## ⏰ Deadlines
@@ -43,7 +43,7 @@ Based on the project instructions + Lecture 8. Lecturer/contact: **Dr. Oshrit Vi
 ## Toolbox (from the instructions)
 Hypothesis testing · confidence interval · significance level · p-value · Type I/II errors and power · MP · UMP · GLRT · one-/two-sided test · one sample · two independent samples · paired samples · χ² · F · sequential Wald test · stopping times · parametric/non-parametric tests · goodness-of-fit · independence · correlations (Pearson/Spearman) · multiple-testing corrections (post-hoc) · regression · classification · interaction terms · learning evaluation metrics · and every concept from the lectures/recitations.
 
-*Actually used in the project (not name-dropping):* MLE+GLRT (H1/H3) · χ² goodness-of-fit + independence + Cramér's V · Welch/Mann-Whitney · F/ANOVA + Kruskal-Wallis · Pearson/Spearman · Wald (H5 against 2/3) · **interaction term Sex×log(BW)** · **paired test** (attempt-1 vs attempt-3) · a-priori power · Bonferroni/BH · regression. *Classification/learning-metrics — intentionally out-of-scope (no prediction task that serves the story).*
+*Actually used in the project (not name-dropping):* MLE+GLRT (H1 + the mixture) · χ² goodness-of-fit (H1 grid) + independence + Cramér's V · Welch/Mann-Whitney · Kruskal-Wallis + regression overall-F · Pearson/Spearman (+ Fisher transform) · Wald (H3 against 2/3) · **interaction term Sex×log(BW)** · **paired test** (attempt-1 vs attempt-3) · a-priori power · Bonferroni/Holm/Šidák/BH · **regression + Random Forest + logistic "made-weight" classifier, with R²/Adjusted-R²/RMSE/grouped-CV and AUC/confusion — H4, the learning + classification half.**
 
 ## Dataset
 - **Selected: OpenPowerlifting** (CC0) — verified end-to-end on the real data (downloaded and analyzed).